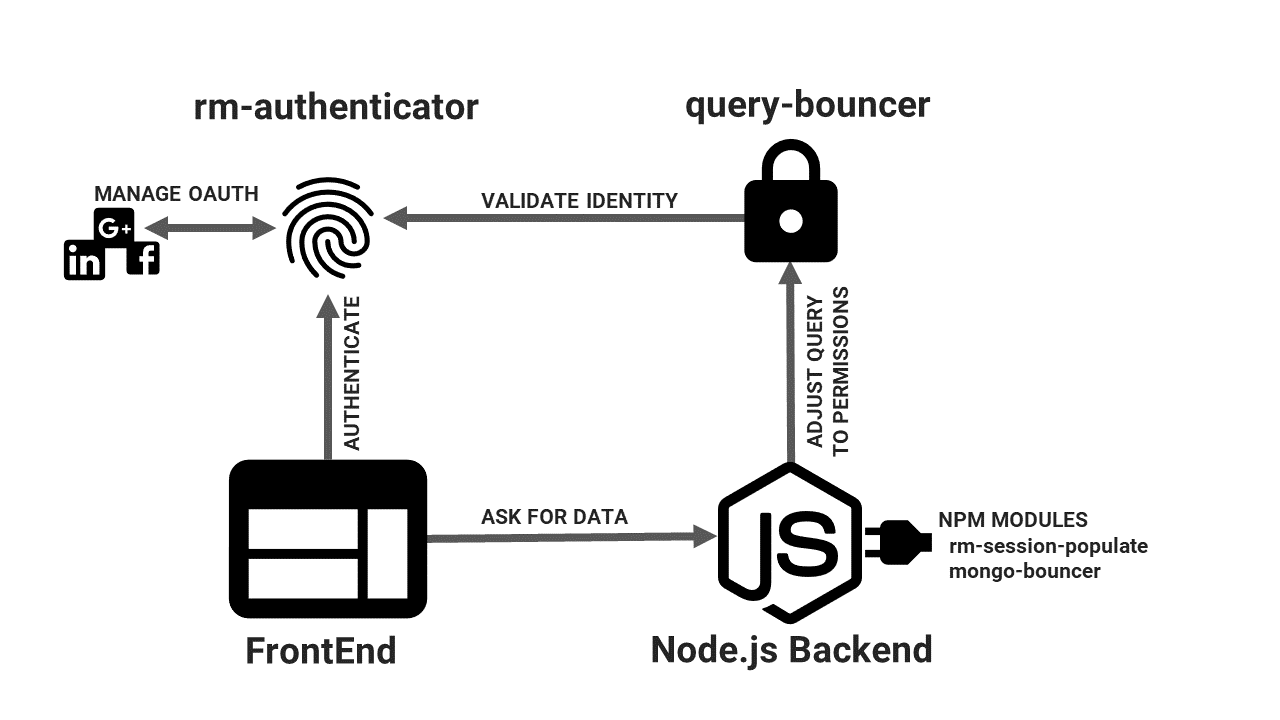
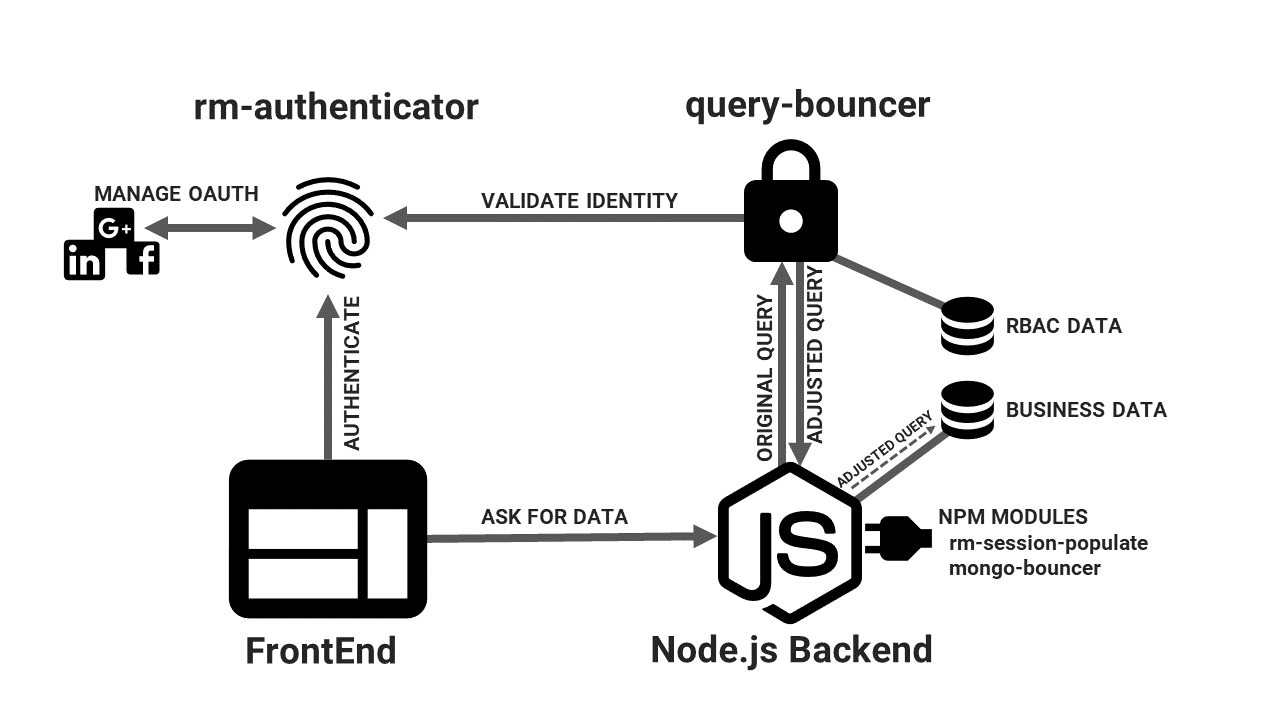
more info to architecture

Changed region(s): [[0.5938, 0.3361, 0.9062, 0.7028], [0.6875, 0.7028, 0.9062, 0.825], [0.6562, 0.7333, 0.6875, 0.7639]]

diff --git a/README.md b/README.md
@@ -9,7 +9,9 @@ The Query Bouncer is a containerized Microservice to work together with [rm-Auth
 It will do that by adjusting a database query sent from the backend in alignment with a users permissions. 
 The updated query will be sent back and can be used to retrieve data from the database that the user is allowed to see/create...
 
-Currently Queries for MongoDB are supported.
+The upside is that the Query bouncer will never handle your live business data but will only adjust queries you make to the database.
+
+Currently only Queries for MongoDB are supported.
 
 There are two components that are mandatory if you want to use the Query Bouncer. You'll need a running instance of *rm-authenticator* and the *query-bouncer* itsself. If you are using node.js as Backend we also recommend using the *query-bouncer* and the *rm-session-populate* as plugins to further make the use easier and enable you to focus on writing your application.
 
